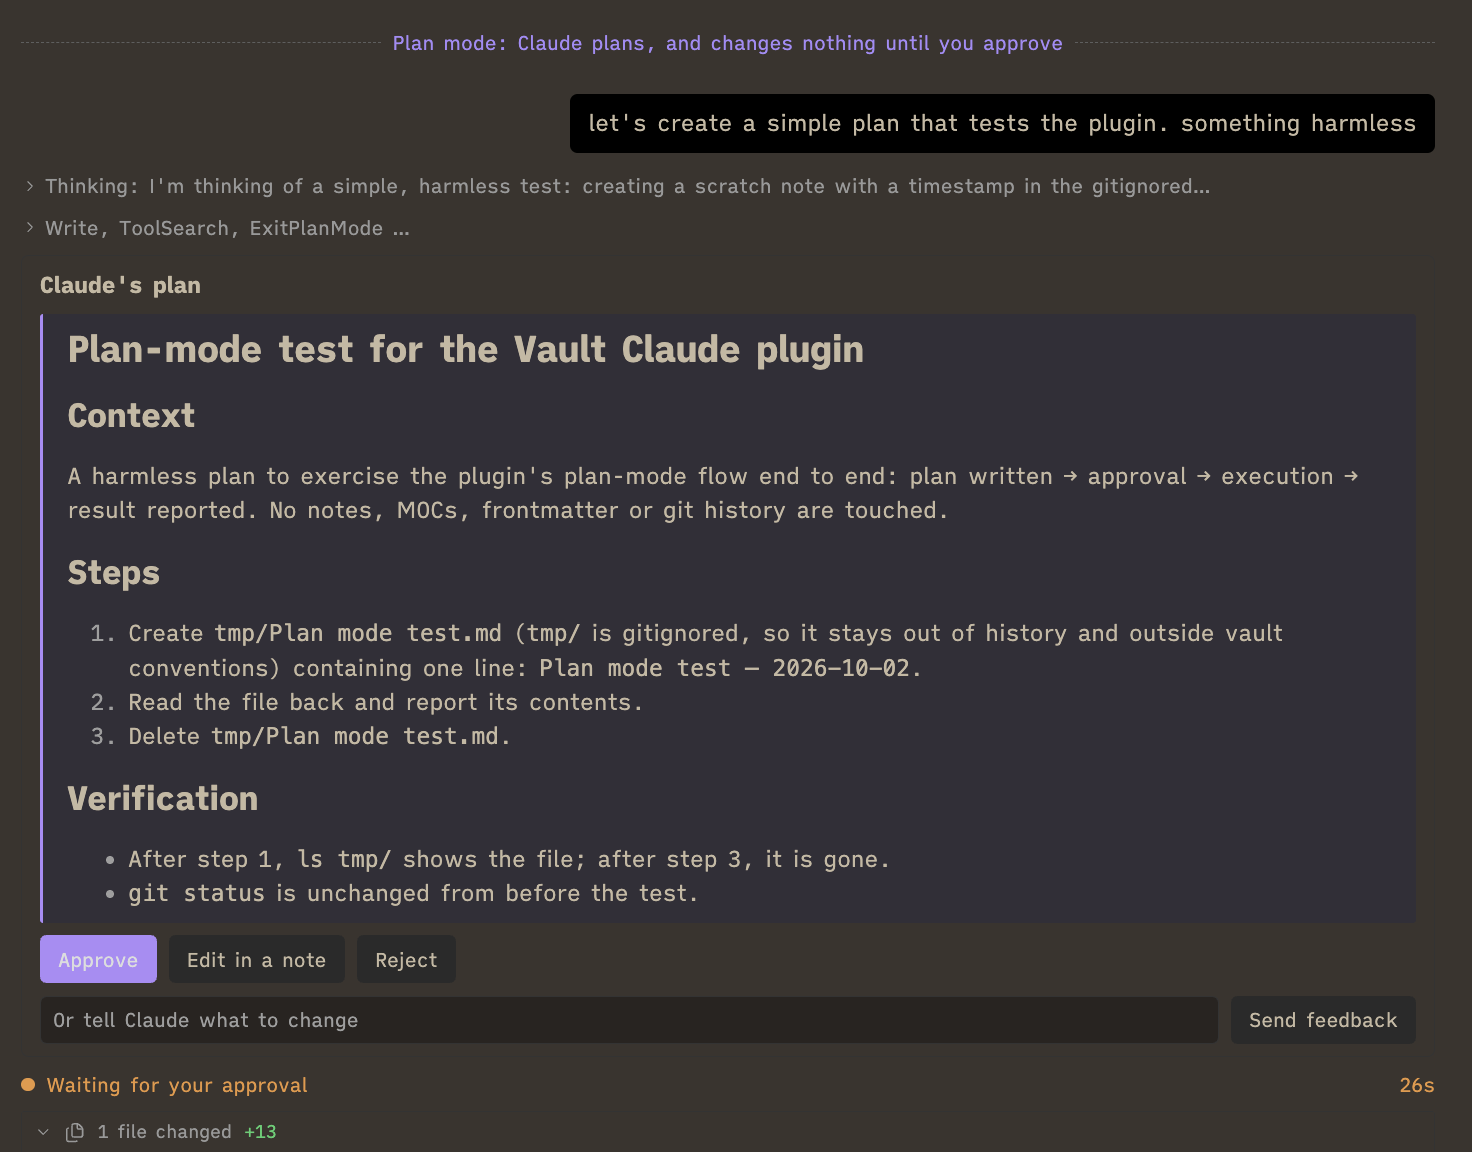
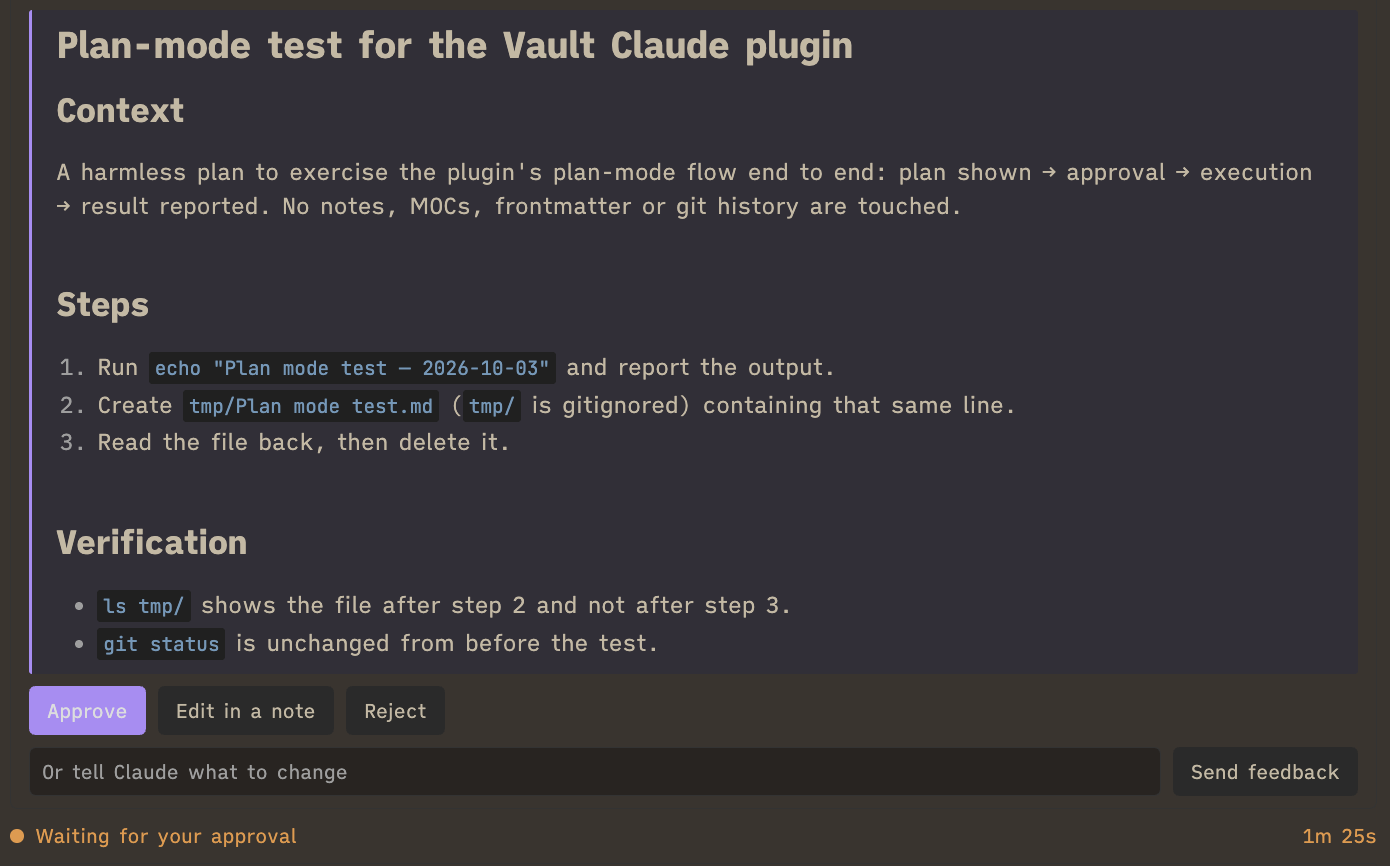
Plans: no label over the plan card, the steps before it folded into one line, Claude Code's plan file left out of the changed files; README plan screenshot renewed

diff --git a/src/view.ts b/src/view.ts
@@ -29,7 +29,7 @@ import type {
   SessionMessage,
   SlashCommand,
 } from '@anthropic-ai/claude-agent-sdk';
-import { agentTranscript, branchChat, branchChatFrom, chatTitle, deleteSessionIfAny, entryBefore, formatDate, lastMessages, loadChat, loadTranscript, readPlanFile, sessionTitle, subagentFile, type HistoryItem, type LoadedChat } from './history';
+import { agentTranscript, branchChat, branchChatFrom, chatTitle, deleteSessionIfAny, entryBefore, formatDate, lastMessages, loadChat, loadTranscript, isPlanFile, readPlanFile, sessionTitle, subagentFile, type HistoryItem, type LoadedChat } from './history';
 import { EarlierDrawing, historyParts } from './earlierTurns';
 import {
   filePathOf,
@@ -2307,7 +2307,12 @@ export class ChatView extends ItemView {
    * stays where it is and stays open, so a reply that speaks between steps can still be read.
    */
   private foldSteps(turn: HTMLElement): void {
-    if (turn.querySelector(':scope > .vc-steps')) return;
+    if (turn.hasClass('has-folded-steps')) return;
+    turn.addClass('has-folded-steps');
+    // Steps folded early, above a plan or questions (see foldStepsBefore), fold again with the rest.
+    for (const early of Array.from(turn.querySelectorAll<HTMLElement>(':scope > .vc-steps'))) {
+      early.replaceWith(...Array.from(early.querySelector('.vc-steps-body')?.children ?? []));
+    }
     // Text that was only white space between two steps does not end their run, which would split one
     // fold into two with nothing between: it is removed. Judged by its source, not by what is on
     // screen, since a reply's Markdown is still being rendered when a chat opened from the history folds.
@@ -2333,6 +2338,24 @@ export class ChatView extends ItemView {
     }
     if (run.length > 0) runs.push(run);
     for (const steps of runs) if (steps.length >= 2) this.foldRun(turn, steps);
+  }
+
+  /**
+   * The run of steps just before `card` (a plan, or questions, waiting on you), folded into one line
+   * so the card stands out while the reply is still going; at its end they fold again with the rest
+   * of its steps (see foldSteps). A lone step is already one line.
+   */
+  private foldStepsBefore(card: HTMLElement): void {
+    const turn = card.parentElement;
+    if (!turn?.hasClass('vc-turn') || turn.hasClass('has-folded-steps')) return;
+    const run: HTMLElement[] = [];
+    for (let el = card.previousElementSibling as HTMLElement | null; el; el = el.previousElementSibling as HTMLElement | null) {
+      if (el.hasClass('vc-changes') || el.hasClass('vc-turn-actions')) continue;
+      if (isStep(el)) run.unshift(el);
+      // Text with nothing in it (white space between steps) is passed over, left where it is.
+      else if (!(el.hasClass('vc-text') && !(this.markdownSource.get(el) ?? el.textContent ?? '').trim())) break;
+    }
+    if (run.length >= 2) this.foldRun(turn, run);
   }
 
   /** One run of consecutive steps, folded in place. */
@@ -4540,7 +4563,8 @@ export class ChatView extends ItemView {
    */
   private renderEdit(name: string, input: Record<string, unknown>, structured: unknown, saved: boolean): void {
     const root = this.plugin.vaultRoot() ?? '';
-    const diffs = toolDiffs(name, input, structured);
+    // The plan Claude Code writes in plan mode is shown by its card, not as a changed file.
+    const diffs = toolDiffs(name, input, structured).filter((diff) => !isPlanFile(diff.file));
     for (const diff of diffs) {
       const vaultPath = vaultRelative(diff.file, root);
       // The note remembers the chats that changed it, and offers them when you open it again. An
@@ -4676,6 +4700,8 @@ export class ChatView extends ItemView {
     const { toolName, input } = request;
     const summary = summarizeTool(toolName, input, this.plugin.vaultRoot() ?? '');
     const card = this.container().createDiv({ cls: 'vc-permission' });
+    // A plan or questions wait on you: the steps that led to them fold into one line above them.
+    if (toolName === 'ExitPlanMode' || toolName === 'AskUserQuestion') this.foldStepsBefore(card);
     if (!approval.shown) log('approval asked', { tool: toolName });
     approval.shown = true;
     this.openApprovals.push(approval);
@@ -4796,8 +4822,8 @@ export class ChatView extends ItemView {
     const carried = kept !== undefined && this.app.vault.getAbstractFileByPath(kept) instanceof TFile;
     if (carried) approval.notePath = kept;
 
+    // No title: the plan's own heading names it, and the tinted panel and its buttons say what it is.
     card.addClass('vc-plan-card');
-    card.createDiv({ cls: 'vc-permission-title', text: "Claude's plan" });
     if (carried) {
       const line = card.createDiv({ cls: 'vc-muted vc-plan-carried' });
       line.appendText('Your edits to the plan you withdrew are in the plan note, and Approve sends them. ');

diff --git a/scripts/panel-test.ts b/scripts/panel-test.ts
@@ -1237,6 +1237,32 @@ async function main(): Promise<void> {
         return { answered, card, button };
       };
       const decided = () => internals.messagesEl.querySelector('.vc-permission.is-decided')?.textContent;
+      // The steps before a plan fold into one line above it; at the reply's end they fold again with the
+      // rest. The plan Claude Code writes is not listed among the reply's changed files.
+      {
+        internals.messagesEl.empty();
+        planView.draw.turn = null;
+        const steps = view as unknown as { container(): HTMLElement; foldSteps(turn: HTMLElement): void; renderEdit(name: string, input: Record<string, unknown>, structured: unknown, saved: boolean): void };
+        const foldTurn = steps.container();
+        foldTurn.createDiv({ cls: 'vc-tools vc-thinking' });
+        foldTurn.createDiv({ cls: 'vc-tools' });
+        const os = await import('node:os');
+        steps.renderEdit('Write', { file_path: `${os.homedir()}/.claude/plans/a-test-plan.md`, content: '# Plan' }, undefined, false);
+        const planListed = foldTurn.querySelector('.vc-changes') !== null;
+        const foldAsked = planView.askPermission({ toolName: 'ExitPlanMode', input: { plan, planFilePath: '/tmp/plan.md' }, signal: new AbortController().signal });
+        const foldedBefore = foldTurn.querySelectorAll(':scope > .vc-steps > .vc-steps-body > .vc-tools').length;
+        const cardAfterFold = foldTurn.querySelector(':scope > .vc-steps + .vc-plan-card') !== null;
+        ([...foldTurn.querySelectorAll('button')].find((el) => el.textContent === 'Reject') as HTMLElement).click();
+        await foldAsked;
+        steps.foldSteps(foldTurn);
+        const foldsAtEnd = foldTurn.querySelectorAll(':scope > .vc-steps').length;
+        const stepsAtEnd = foldTurn.querySelectorAll(':scope > .vc-steps > .vc-steps-body > *').length;
+        internals.messagesEl.empty();
+        planView.draw.turn = null;
+        const foldOk = !planListed && foldedBefore === 2 && cardAfterFold && foldsAtEnd === 1 && stepsAtEnd === 3;
+        console.log(`steps before a plan: folded ${foldedBefore}, card after the fold ${cardAfterFold}; at the end ${foldsAtEnd} fold of ${stepsAtEnd}; plan file listed ${planListed} -> ${foldOk}`);
+        if (!foldOk) process.exitCode = 1;
+      }
       const settle = () => new Promise((resolve) => setTimeout(resolve, 10));
       // Approved in Plan mode entered from Auto: back to Auto, and Claude Code is told so.
       const modeView = view as unknown as { mode: string; modeBeforePlan: string };
@@ -1249,7 +1275,8 @@ async function main(): Promise<void> {
       Object.assign(modeView, modeWas);
       // As it is.
       const plain = propose();
-      const planTitle = plain.card.querySelector('.vc-permission-title')?.textContent;
+      // No title of its own: the plan's heading names it.
+      const planTitle = plain.card.querySelector('.vc-permission-title')?.textContent ?? null;
       // Styled as any rendered Markdown (its tables, say).
       const planMarkdown = plain.card.querySelector('.vc-plan')?.classList.contains('vc-markdown') === true;
       plain.button('Approve').click();
@@ -1395,7 +1422,7 @@ async function main(): Promise<void> {
       internals.messagesEl.empty();
       planView.draw.turn = null;
       const planOk =
-        planTitle === "Claude's plan" &&
+        planTitle === null &&
         planMarkdown &&
         plainResult.behavior === 'allow' &&
         plainResult.updatedInput?.plan === plan &&

diff --git a/src/history.ts b/src/history.ts
@@ -344,6 +344,24 @@ export async function readPlanFile(file: unknown): Promise<string | null> {
   return fs.readFile(resolved, 'utf8').catch(() => null);
 }
 
+/**
+ * Whether `file` is in Claude Code's plans folder (`<config>/plans`), where it writes the plan it
+ * shows for approval: compared as real paths, as readPlanFile does, without case on Windows.
+ */
+export function isPlanFile(file: string): boolean {
+  const configDir = (process.env.CLAUDE_CONFIG_DIR || path.join(os.homedir(), '.claude')).normalize('NFC');
+  const real = (where: string) => {
+    try {
+      return realpathSync(where).normalize('NFC');
+    } catch {
+      return where;
+    }
+  };
+  const inFolder = real(path.dirname(path.resolve(file.normalize('NFC'))));
+  const plans = real(path.join(configDir, 'plans'));
+  return process.platform === 'win32' ? inFolder.toLowerCase() === plans.toLowerCase() : inFolder === plans;
+}
+
 /** Where Claude Code keeps a session: `<config>/projects/<projectFolder>/<id>.jsonl`. */
 function sessionFile(id: string, dir: string): string {
   return path.join(sessionFolder(dir), `${id}.jsonl`);

diff --git a/test/readPlanFile.test.ts b/test/readPlanFile.test.ts
@@ -36,3 +36,21 @@ test("a plan is read only from a Markdown file in Claude Code's plans folder", a
     rmSync(config, { recursive: true, force: true });
   }
 });
+
+test("a file is a plan when it is in Claude Code's plans folder, named by either path", async () => {
+  const { isPlanFile } = await import('../src/history');
+  const config = mkdtempSync(`${tmpdir()}/vault-claude-plans-`);
+  const before = process.env.CLAUDE_CONFIG_DIR;
+  process.env.CLAUDE_CONFIG_DIR = config;
+  mkdirSync(`${config}/plans`);
+  try {
+    assert.equal(isPlanFile(`${config}/plans/a-plan.md`), true);
+    assert.equal(isPlanFile(`${realpathSync(config)}/plans/a-plan.md`), true);
+    assert.equal(isPlanFile(`${config}/plans/../notes.md`), false);
+    assert.equal(isPlanFile(`${config}/other/a-plan.md`), false);
+  } finally {
+    if (before === undefined) delete process.env.CLAUDE_CONFIG_DIR;
+    else process.env.CLAUDE_CONFIG_DIR = before;
+    rmSync(config, { recursive: true, force: true });
+  }
+});

diff --git a/README.md b/README.md
@@ -99,9 +99,9 @@ Open the chat from the robot icon in the left ribbon.
 
   <img src="docs/reply-buttons.png" width="420" alt="The buttons under a reply — reply, copy, insert into a note, branch — shown three times with the tooltips “Reply to this”, “Insert into note” and “Branch from here”">
 
-- **When Claude finishes a plan** (Plan mode, from the mode menu or `/plan` followed by what to plan), its card offers **Approve**, **Edit in a note** (approving then sends your edited version, and the note is deleted; if Esc withdraws the plan, edits in the note carry over to Claude's next plan in the chat), feedback to send it back, or **Reject**.
+- **When Claude finishes a plan** (Plan mode, from the mode menu or `/plan` followed by what to plan), the steps that led to it fold into one line and its card offers **Approve**, **Edit in a note** (approving then sends your edited version, and the note is deleted; if Esc withdraws the plan, edits in the note carry over to Claude's next plan in the chat), feedback to send it back, or **Reject**.
 
-  <img src="docs/plan-card.png" width="560" alt="A chat in Plan mode: the line “Plan mode: Claude plans, and changes nothing until you approve” above the request, then Claude’s plan on a tinted panel, with Approve, Edit in a note and Reject, a box to tell Claude what to change, and “Waiting for your approval” below">
+  <img src="docs/plan-card.png" width="560" alt="Claude’s plan on a tinted panel: its title, Context, Steps with commands and file names as inline code, and Verification, with Approve, Edit in a note and Reject below it, a box to tell Claude what to change, and “Waiting for your approval”">
 
 - **When Claude asks a multiple-choice question**, a card shows it in the chat: click an option, pick several where the question allows, or type your own answer. Skip declines.
 
